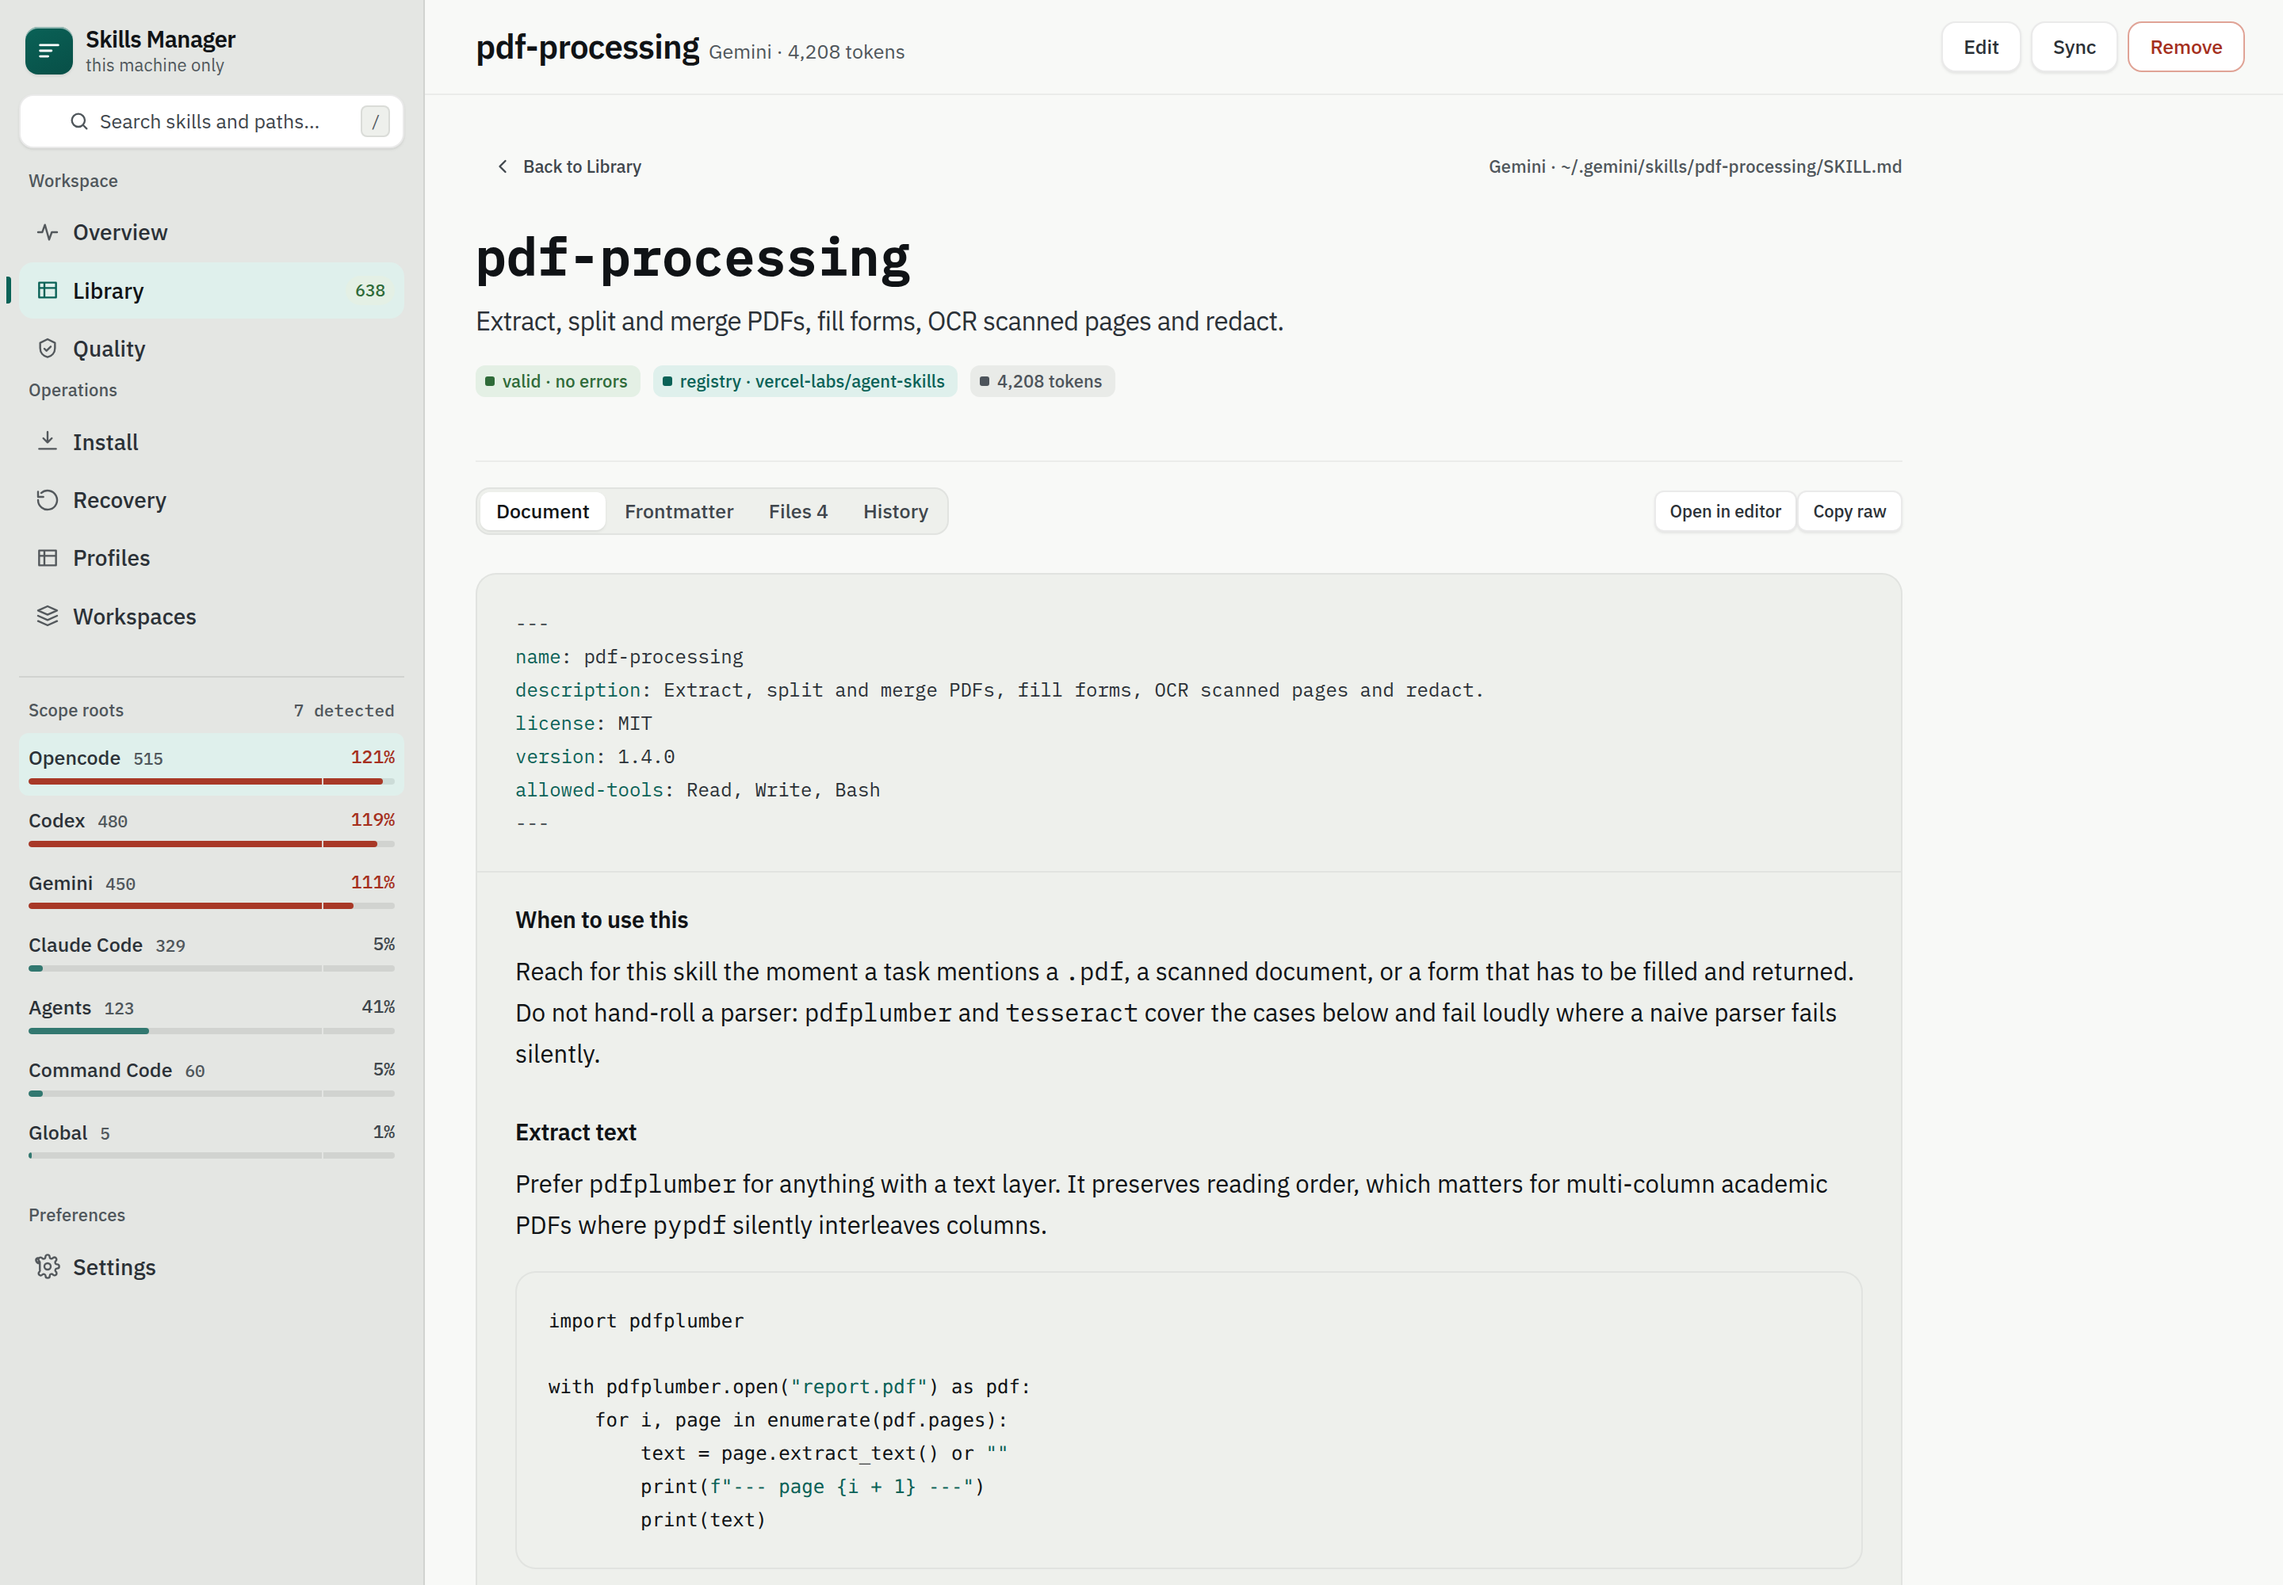
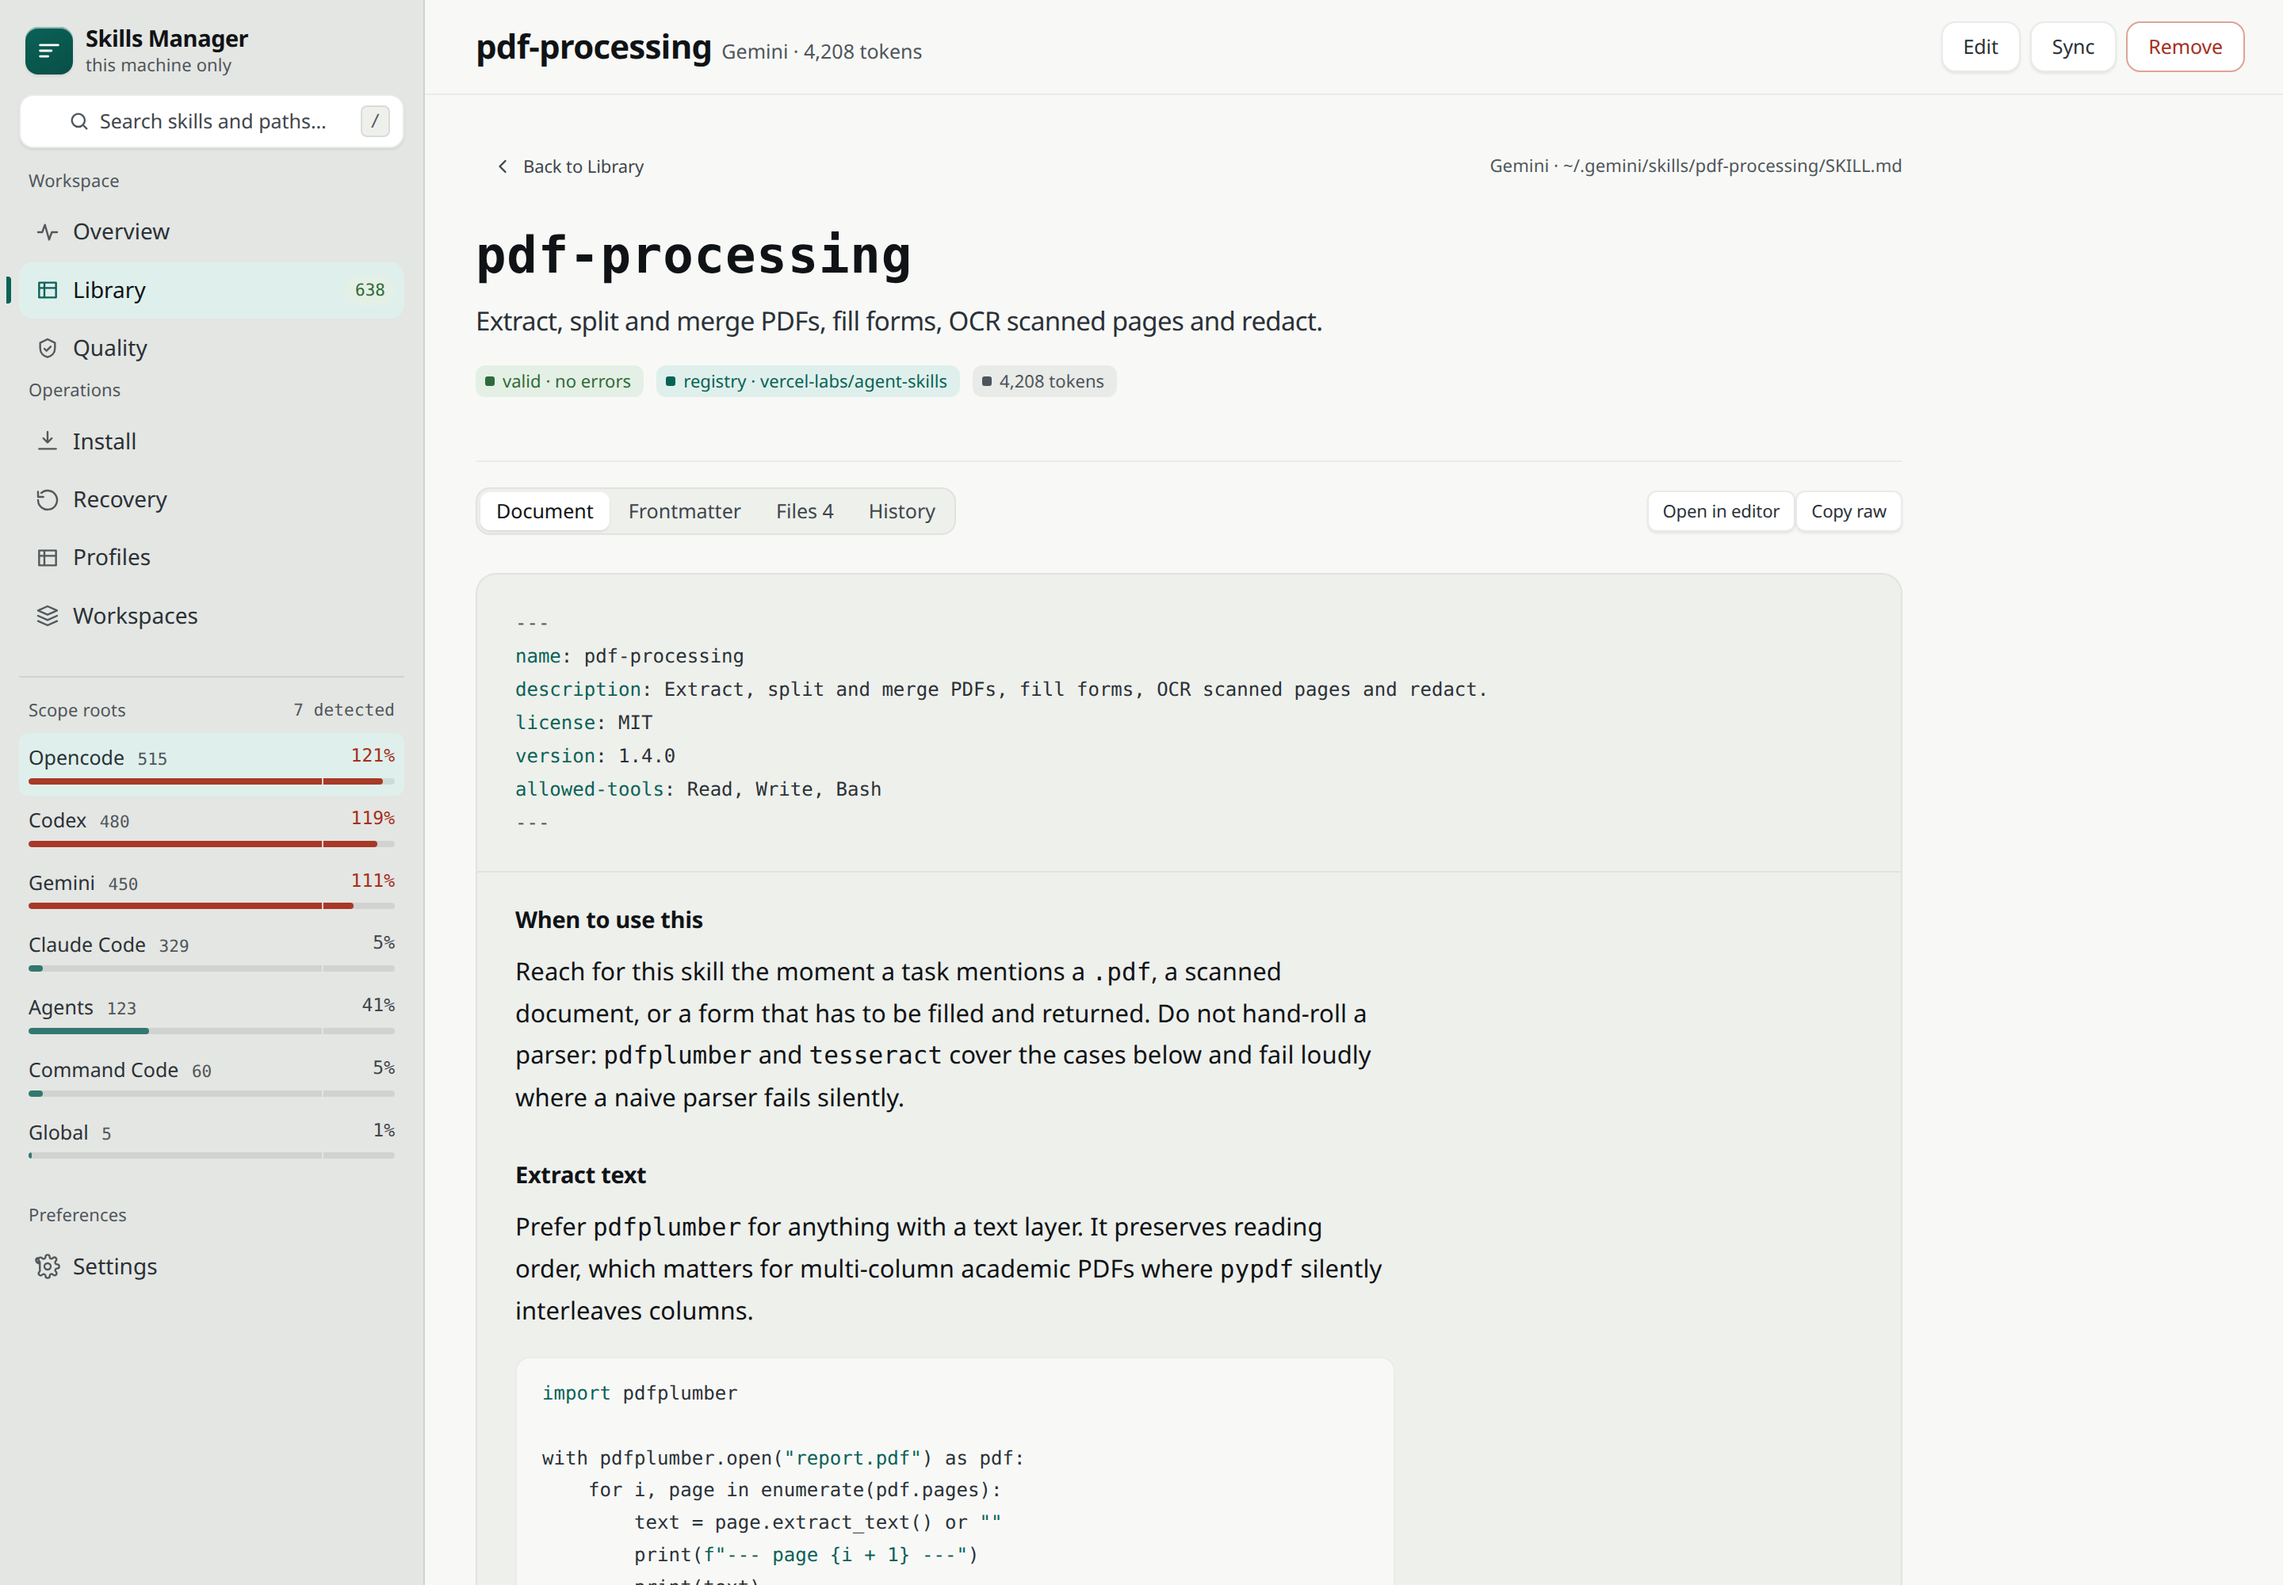
fix(proto): the measure, the code block, and a state that cannot occur
Three defects found by reading the rendered screenshots rather than the
source, which is the only instrument that catches this class:

  - the document reader's prose ran ~130 characters wide. The design contract
    caps the measure at 68ch, and a reader that ignores the rule the moment
    the container happens to be 1,255px wide is not a rule. Capped inside
    the sheet too, not only on .prose.
  - the review dialog showed the confirmation checked with Apply disabled.
    That state cannot be reached — the button enables on check — so the
    screenshot depicted something no reader would ever see. Now shows the
    state after confirming, which is the one worth reviewing.
  - code blocks were a bare <pre> on the sheet fill, so a code sample read as
    a continuation of the sentence above it. They are now their own surface
    with a keyword tint, which is what tells the eye "this is a different
    kind of thing".

diff --git a/.specs/prototypes/2026-10-08-instrument/screens/03-document.html b/.specs/prototypes/2026-10-08-instrument/screens/03-document.html
@@ -172,7 +172,7 @@
 <span style="color:var(--signal)">allowed-tools</span>: Read, Write, Bash
 <span style="color:var(--ink-4)">---</span></pre>
               </div>
-              <div class="prose" style="padding:var(--s6) var(--s7);max-width:none">
+              <div class="prose" style="padding:var(--s6) var(--s7)">
                 <h2 class="h-head" style="margin-bottom:10px">When to use this</h2>
                 <p>Reach for this skill the moment a task mentions a <code class="mono">.pdf</code>,
                   a scanned document, or a form that has to be filled and returned. Do not
@@ -185,8 +185,8 @@
                   It preserves reading order, which matters for multi-column academic PDFs
                   where <code class="mono">pypdf</code> silently interleaves columns.</p>
 
-                <div class="sheet" style="margin:16px 0">
-                  <pre style="margin:0;font-family:var(--ff-mono);font-size:12px;line-height:1.7;overflow-x:auto"><code>import pdfplumber
+                <div class="codeblock">
+                  <pre><code><span class="kw">import</span> pdfplumber
 
 with pdfplumber.open(<span style="color:var(--signal)">"report.pdf"</span>) as pdf:
     for i, page in enumerate(pdf.pages):

diff --git a/.specs/prototypes/2026-10-08-instrument/assets/proto.css b/.specs/prototypes/2026-10-08-instrument/assets/proto.css
@@ -615,6 +615,19 @@ a { color: var(--signal); text-decoration: none; }
   background: var(--sunken); border: 1px solid var(--rule-soft);
   border-radius: var(--r-lg);
 }
+/* The measure is capped INSIDE the sheet too. A document pane is exactly the
+   place a full-width paragraph goes unreadable, and a reader that ignores
+   the rule when the container happens to be 1,255px wide is not a rule. */
+.sheet > .prose { max-width: 68ch; }
+.sheet > pre, .sheet > .sheet { max-width: 100%; }
+.codeblock {
+  background: var(--surface); border: 1px solid var(--rule-soft);
+  border-radius: var(--r-md); padding: var(--s4) var(--s5);
+  overflow-x: auto; margin: var(--s5) 0;
+}
+.codeblock pre { margin: 0; font-family: var(--ff-mono); font-size: 12px; line-height: 1.7; }
+.codeblock code { color: var(--ink-2); }
+.codeblock .kw { color: var(--signal); }
 
 /* ─── Callout ─────────────────────────────────────────────────────────────────
    Explains the concept next to the number, not the number. One per screen. */

diff --git a/.specs/prototypes/2026-10-08-instrument/screens/13-review.html b/.specs/prototypes/2026-10-08-instrument/screens/13-review.html
@@ -387,7 +387,7 @@
       <span class="small faint">A snapshot is kept for rollback — it is never a blind restore</span>
       <span class="spacer"></span>
       <button class="btn btn-secondary">Cancel</button>
-      <button class="btn btn-primary" disabled style="opacity:.5">Apply reviewed update</button>
+      <button class="btn btn-primary">Apply reviewed update</button>
     </div>
   </div>
 </div>

diff --git a/.specs/prototypes/2026-10-08-instrument/screens_data.py b/.specs/prototypes/2026-10-08-instrument/screens_data.py
@@ -246,7 +246,7 @@ DOCUMENT = """
 <span style="color:var(--signal)">allowed-tools</span>: Read, Write, Bash
 <span style="color:var(--ink-4)">---</span></pre>
               </div>
-              <div class="prose" style="padding:var(--s6) var(--s7);max-width:none">
+              <div class="prose" style="padding:var(--s6) var(--s7)">
                 <h2 class="h-head" style="margin-bottom:10px">When to use this</h2>
                 <p>Reach for this skill the moment a task mentions a <code class="mono">.pdf</code>,
                   a scanned document, or a form that has to be filled and returned. Do not
@@ -259,8 +259,8 @@ DOCUMENT = """
                   It preserves reading order, which matters for multi-column academic PDFs
                   where <code class="mono">pypdf</code> silently interleaves columns.</p>
 
-                <div class="sheet" style="margin:16px 0">
-                  <pre style="margin:0;font-family:var(--ff-mono);font-size:12px;line-height:1.7;overflow-x:auto"><code>import pdfplumber
+                <div class="codeblock">
+                  <pre><code><span class="kw">import</span> pdfplumber
 
 with pdfplumber.open(<span style="color:var(--signal)">"report.pdf"</span>) as pdf:
     for i, page in enumerate(pdf.pages):
@@ -1066,7 +1066,7 @@ REVIEW_OVERLAY = """
       <span class="small faint">A snapshot is kept for rollback — it is never a blind restore</span>
       <span class="spacer"></span>
       <button class="btn btn-secondary">Cancel</button>
-      <button class="btn btn-primary" disabled style="opacity:.5">Apply reviewed update</button>
+      <button class="btn btn-primary">Apply reviewed update</button>
     </div>
   </div>
 </div>
